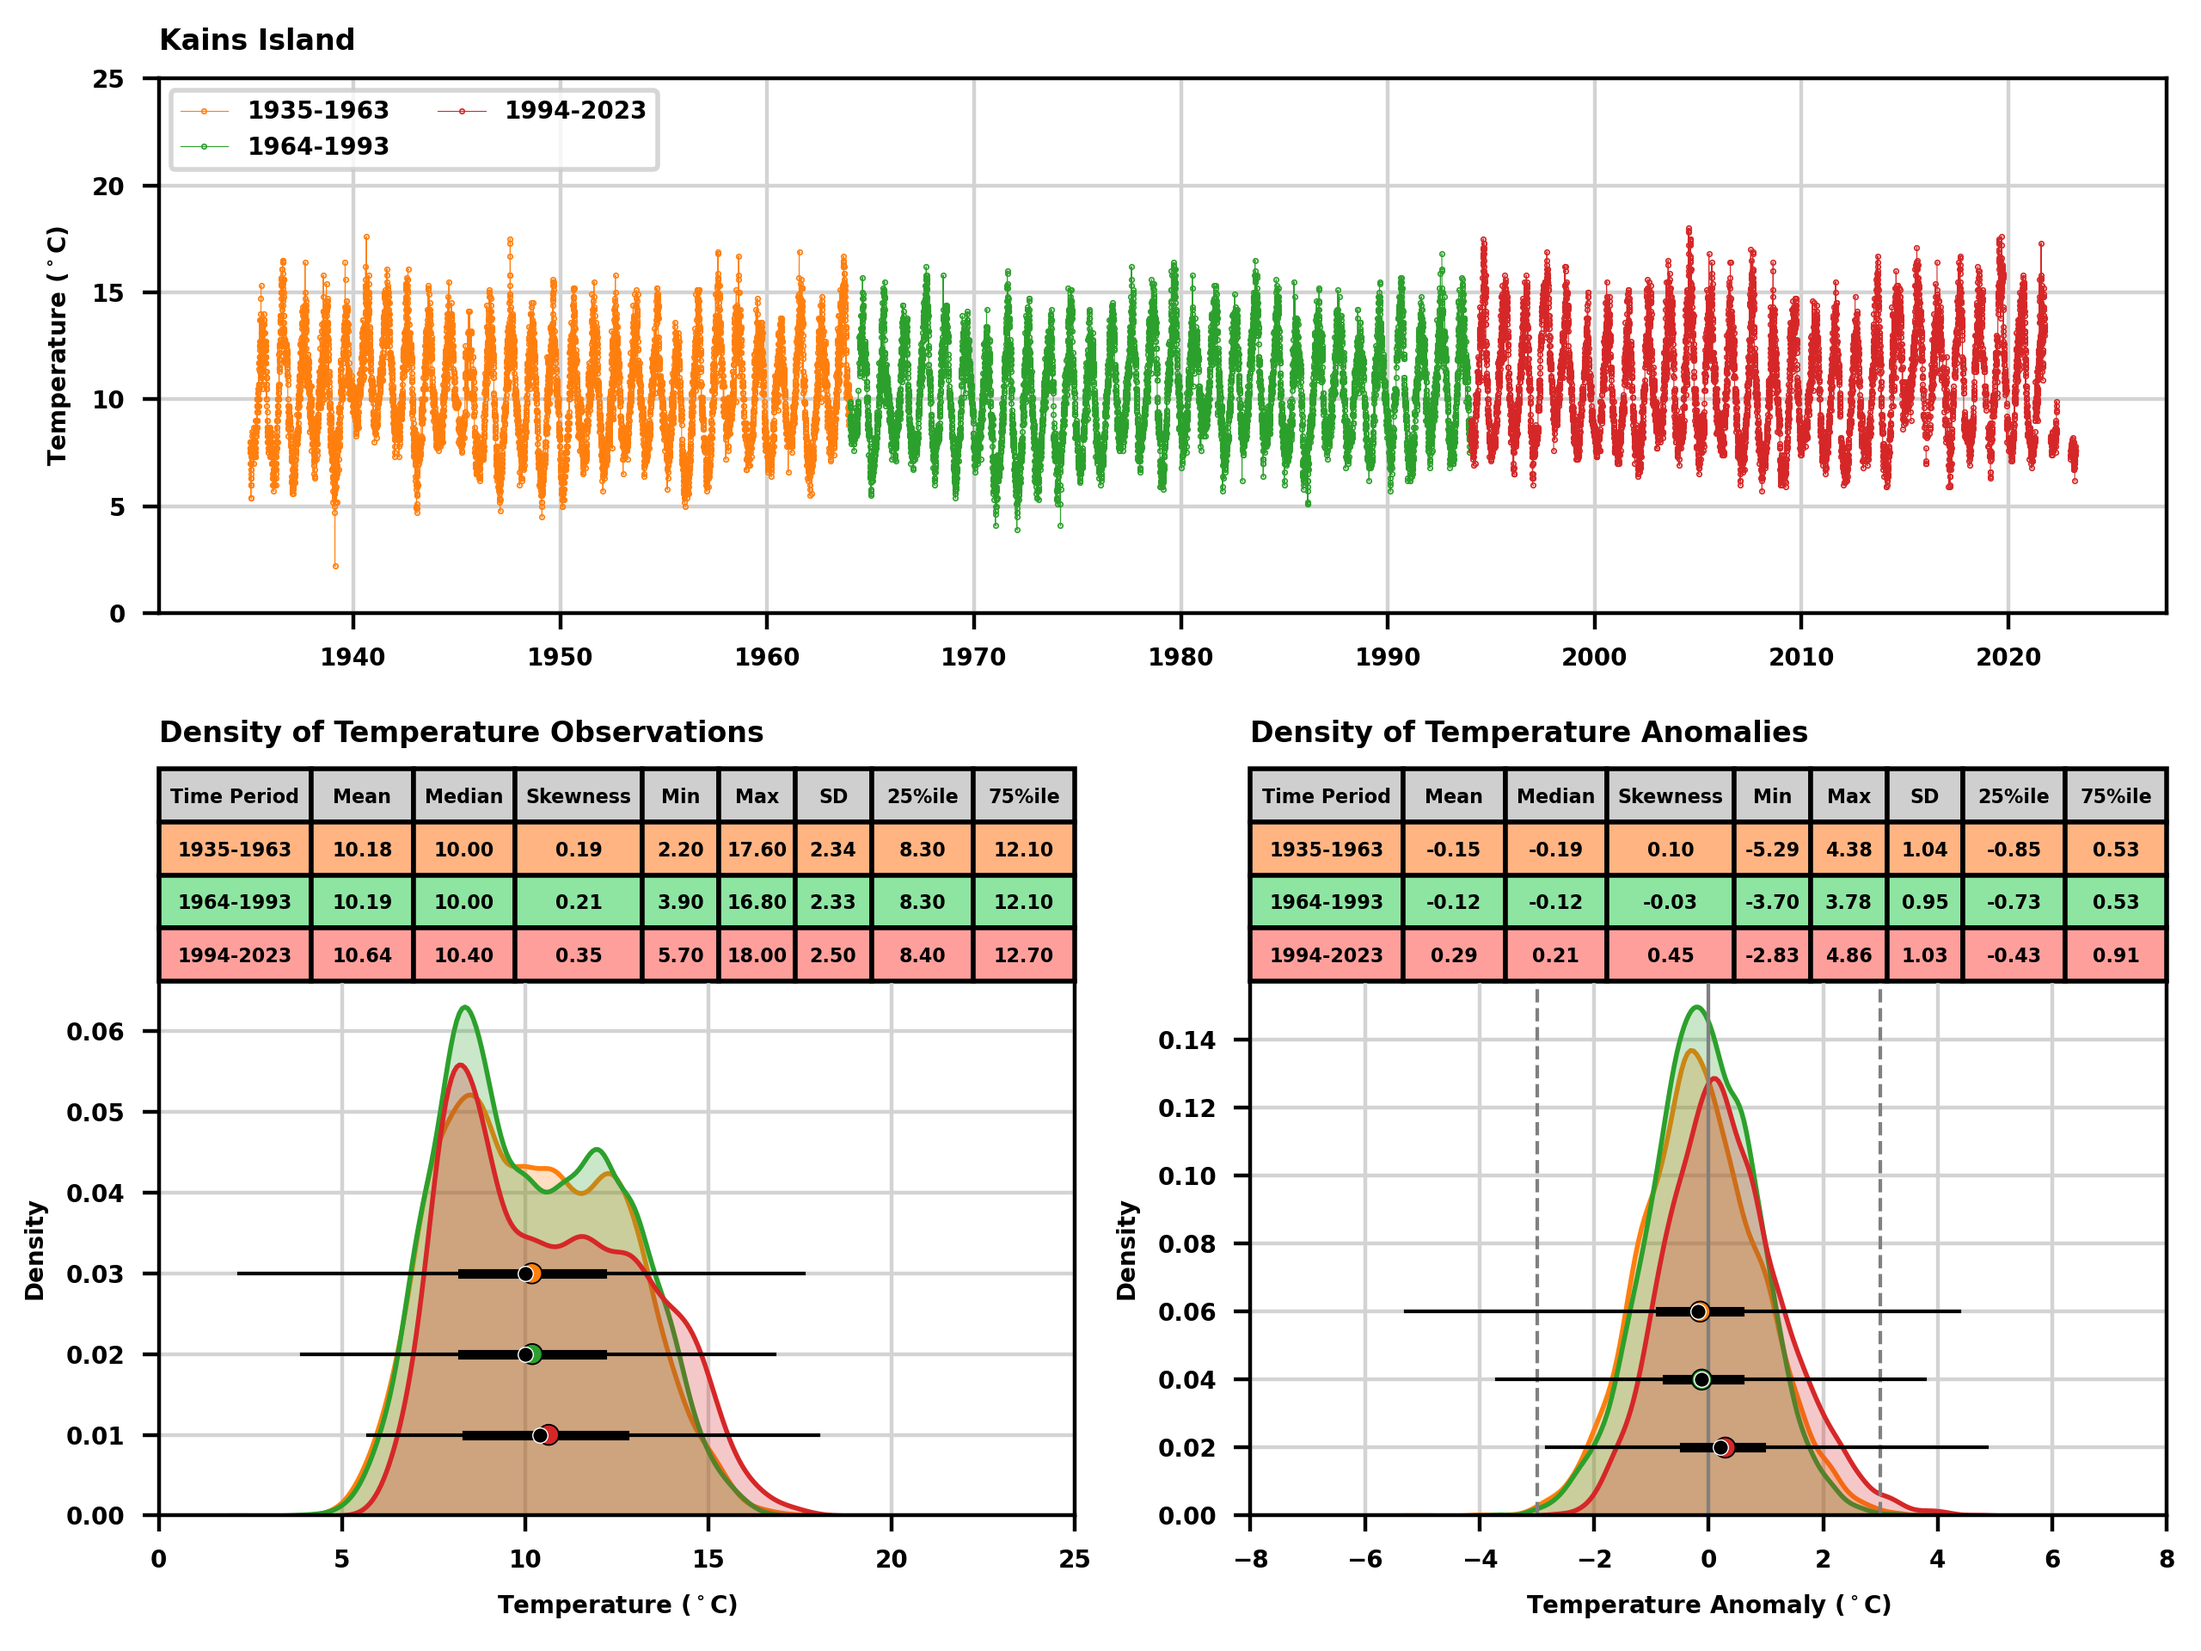
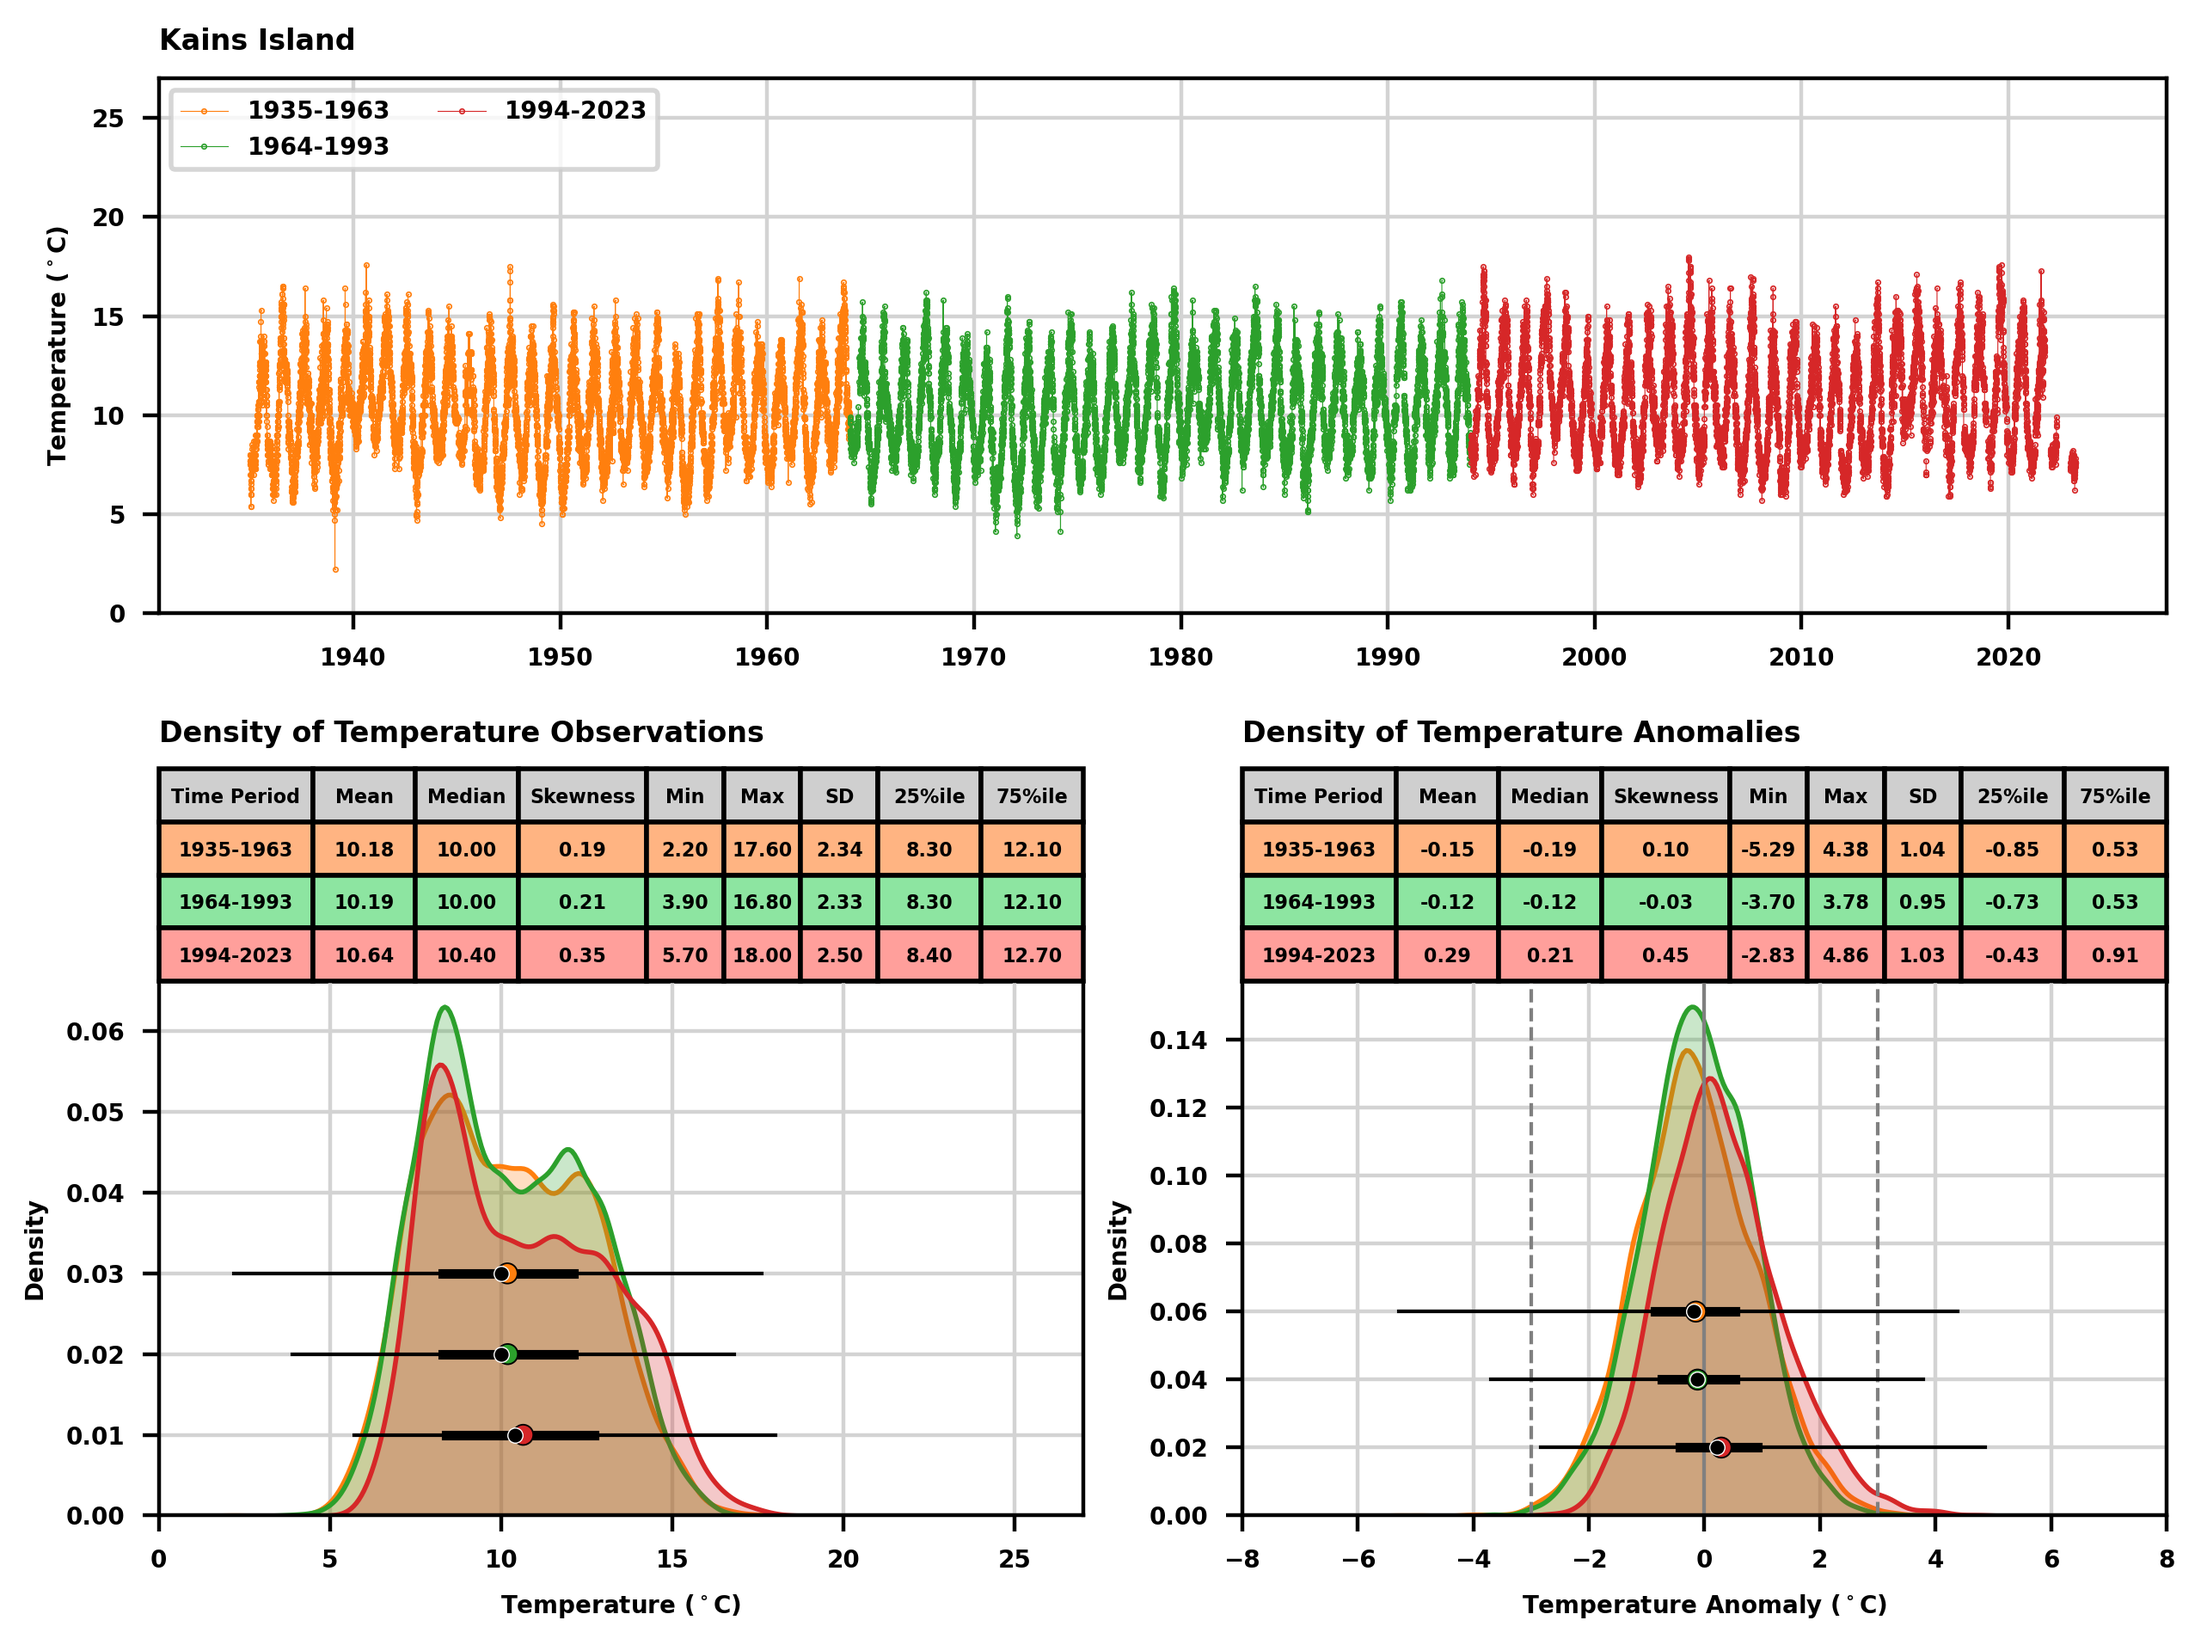
increase temperature axis buffer in statistics plots and fix color palette warning

diff --git a/scripts/plot_lightstation_temperature.py b/scripts/plot_lightstation_temperature.py
@@ -716,7 +716,7 @@ def make_density_subplot(ax: plt.Axes, df: pd.DataFrame, var: str,
 
     # Suppress legend since it's in the time series plot
     # Have to reverse dataframe order to plot newest data in front
-    color_end = 3-len(year_ranges)-1 if 3 > len(year_ranges) else None
+    color_end = 3-len(year_ranges) if 3 >= len(year_ranges) else None
     sns.kdeplot(df.loc[::-1, :], x=var, hue='Year Range', fill=True,
                 legend=False, ax=ax,
                 palette=sns.color_palette()[3:color_end:-1])
@@ -866,11 +866,14 @@ def make_density_subplot(ax: plt.Axes, df: pd.DataFrame, var: str,
 
     # Reset x and y axis limits
     if var == 'Temperature(C)':
-        ax.set_xlim(0, 25)
+        ax.set_xlim(0, 27)
     elif var == 'Temperature Anomaly(C)':
         ax.set_xlim(-8, 8)
 
     ax.set_ylim(*ylim)  # Use * to unpack a tuple
+
+    # # Add buffer to y axis
+    # ax.margins(y=0.1)
 
     # Add subplot title with padding so it doesn't overlap with table above plot
     title_pad = len(df_stats) * 10 + 20
@@ -999,7 +1002,8 @@ def plot_daily_T_statistics():
                      markerfacecolor=colours[4 - len(year_ranges) + k])
         plt.grid(which='major', axis='both', color='lightgrey')
         ax1.legend(loc='upper left', ncol=2)
-        ax1.set_ylim((0, 25))
+        ax1.set_ylim((0, 27))
+        ax1.margins(y=0.1)
         ax1.set_ylabel('Temperature ($^\circ$C)')
         # # Increase x tick frequency to every 10 years
         # xticks = ax1.get_xticks()
@@ -1055,13 +1059,20 @@ def run_plot(
         input_folder + '\\*monthly_anom_from_monthly_mean.csv',
         recursive=False
     )
-    anom_files.sort()
+    if len(anom_files) == 0:
+        print('No anomaly files returned with suffix monthly_anom_from_monthly_mean.csv',
+              'in directory', input_folder, '; exiting !')
+    else:
+        anom_files.sort()
 
     # Get trends and confidence intervals file
     monte_carlo_results = os.path.join(
         input_folder,
         "monte_carlo_max_siml50000_ols_st_cummins.csv"
     )
+
+    if plot_availability:
+        plot_data_gaps()
 
     if plot_monthly_anom:
         for stn, f in zip(STATION_NAMES, anom_files):
@@ -1080,9 +1091,6 @@ def run_plot(
 
     if plot_daily_stats:
         plot_daily_T_statistics()
-
-    if plot_availability:
-        plot_data_gaps()
 
     os.chdir(old_dir)
     return
